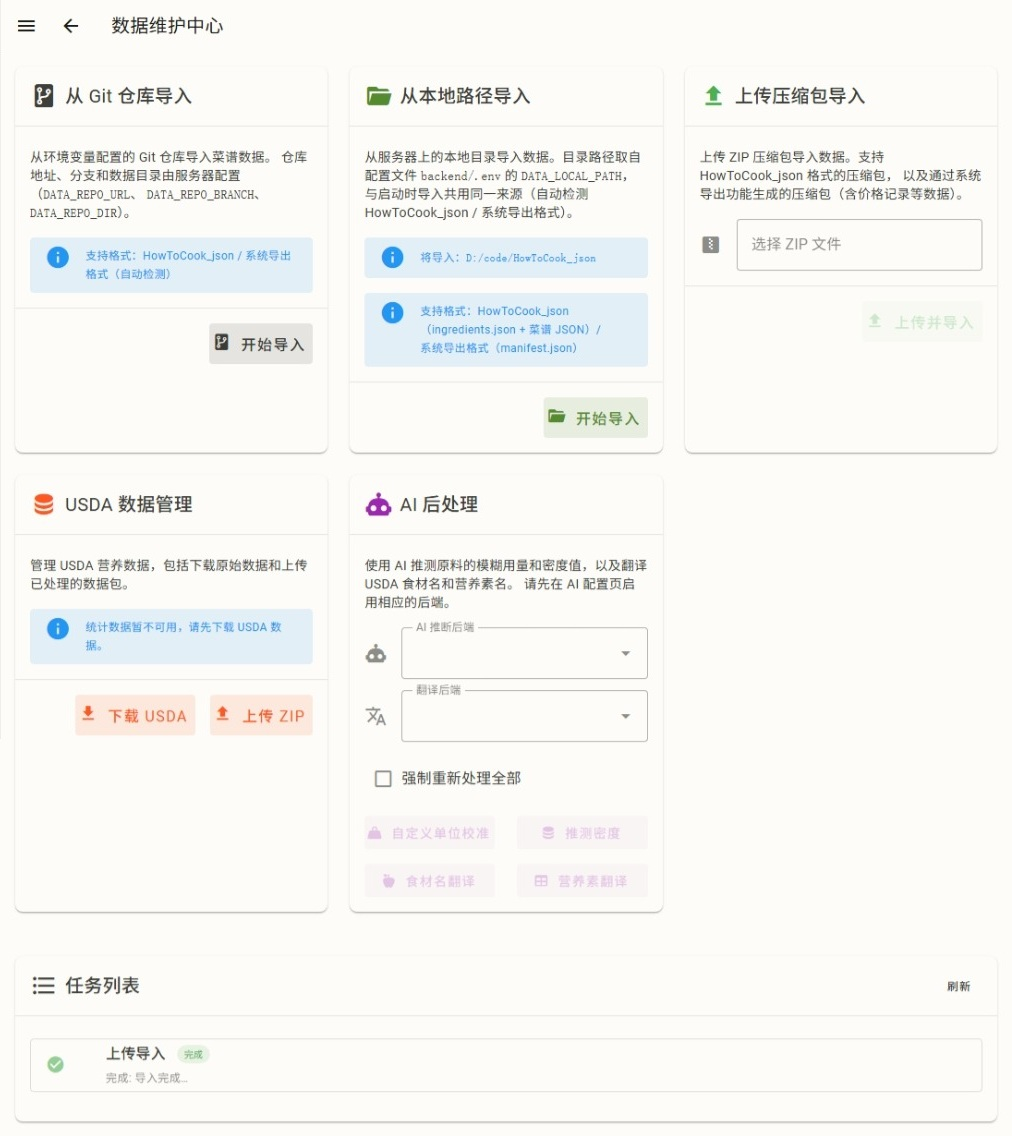
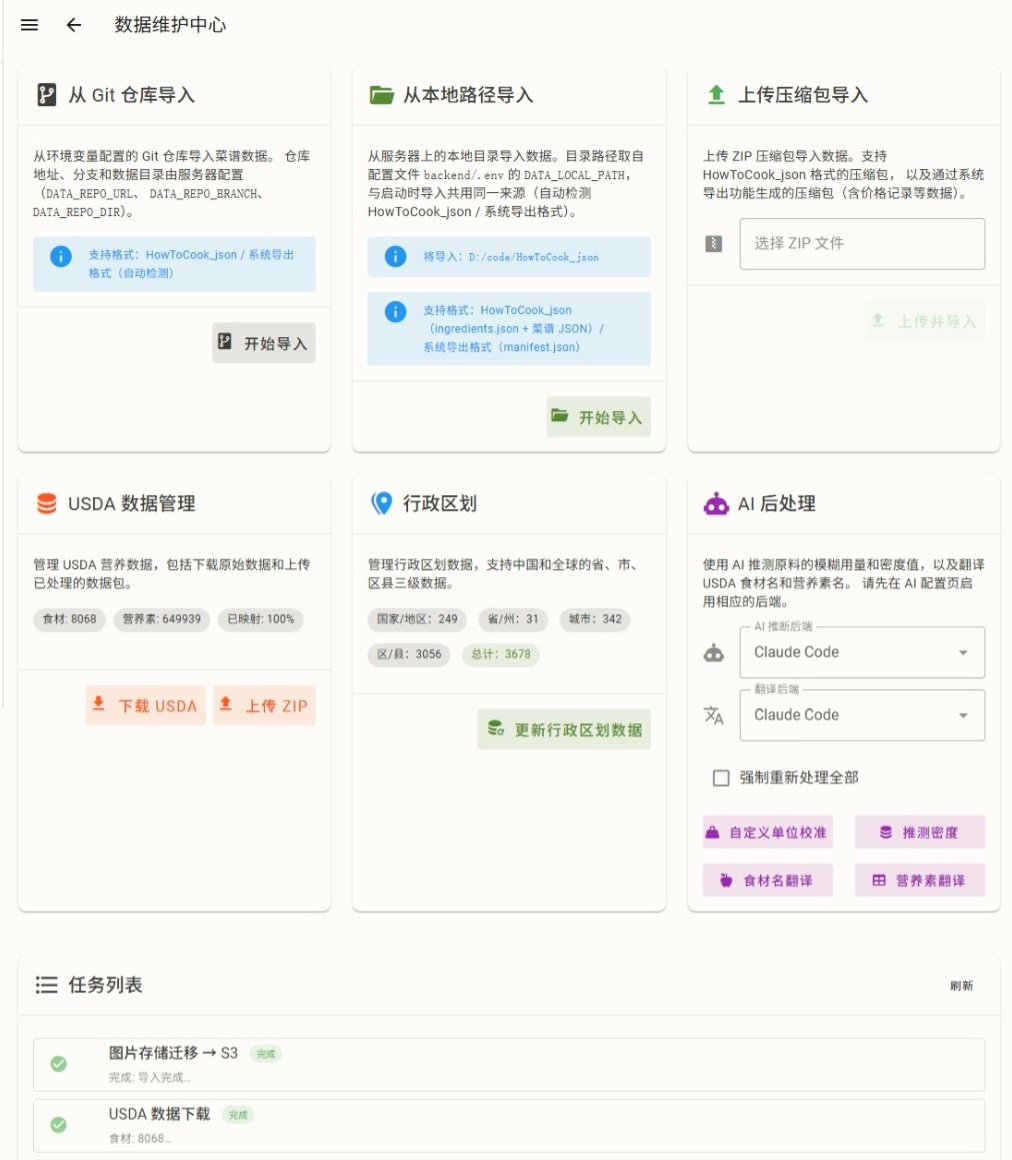
upd docs

diff --git a/docs/admin/data-maintenance.md b/docs/admin/data-maintenance.md
@@ -6,11 +6,12 @@
 
 ## 总览
 
-数据维护中心聚合三类任务的入口和列表：
+数据维护中心聚合以下任务的入口和列表：
 
 - **导入任务**：菜谱/原料/营养的批量导入
 - **Agent 任务**：AI Agent 的批量维护（见 [Agent 任务台](agent.md)）
 - **USDA 任务**：USDA 数据的下载/上传
+- **行政区划**：行政区划信息的更新
 
 所有任务统一在"任务列表"里展示，点进去能跳到对应的工作台。
 
@@ -33,11 +34,17 @@ USDA FoodData Central 是营养数据的来源（见 [营养分析](../nutrition
 
 > USDA 下载较慢（Foundation 几百条 + SR Legacy 七千多条），在任务列表里轮询进度。
 
+## 行政区划
+
+目前覆盖中国大陆的县级行政区划，以及其他国家 / 地区的该层级行政区划，留待以后扩充。
+
+该数据在初始化时即生成，在这里可以更新。
+
 ## AI 后处理
 
 导入数据后，可以用 AI/Agent 批量补全：
 
-- **食材名翻译**：AI（Claude Code / OpenAI / Anthropic）或机翻（百度 / 阿里云 / DeepL）
+- **食材名翻译**：AI（Claude Code / Codex / OpenAI / Anthropic）或机翻（百度 / 阿里云 / DeepL）
 - **营养素名翻译**：走 172 条预设映射表，不耗 AI
 - **模糊量推测**：菜谱里"少许""适量"等推测成具体克数（Agent）
 - **密度推测**：按食材名推测密度（Agent）

diff --git a/docs/admin/admin-pages.md b/docs/admin/admin-pages.md
@@ -154,15 +154,15 @@
 
 ## AI 与机翻配置
 
-![AI 与机翻配置](../img/admin_ai.png)
+![AI 与机翻配置](../img/admin_ai.jpeg)
 
 本页面配置系统里面用到 AI Agent 的地方、使用机器翻译平台的地方的 API 等配置。
 
-- **AI provider**：Claude Code / OpenAI 兼容 API / Anthropic 兼容 API（三个面板）
+- **AI provider**：Claude Code / Codex / OpenAI 兼容 API / Anthropic 兼容 API（三个面板）
 - **机翻 provider**：百度 / 阿里云 / DeepL（三个面板）
 - 每个 provider 一张卡片，填 API 密钥等，统一保存。可以测试，以确认配置是否正确。
 
-> 如果使用 Claude Code，则会试图在环境变量的 PATH 中寻找其可执行文件，配置使用你默认给它的配置。请自行配置。Docker 版本并未封装 Claude Code，请自行安装、配置。
+> 如果使用 Claude Code 或 Codex，则会试图在环境变量的 PATH 中寻找其可执行文件，配置使用你默认给它的配置。请自行配置。Docker 版本并未封装 Claude Code 与 Codex，请自行安装、配置。
 
 ## 未使用图片清理
 

diff --git a/docs/pwa.md b/docs/pwa.md
@@ -1,0 +1,15 @@
+# PWA 支持
+
+本项目支持 PWA，能够在手机 / 电脑上像普通 App 一样使用网页端。
+
+![PWA 模式下的页面](img/pwa_example.PNG)
+
+## iOS 端的使用方式
+
+1. 在 Safari 开启网页的主页，点击右下角的省略号
+2. 点击“共享”
+3. 点击“添加到主屏幕”
+4. 设置主屏幕上的名称。确保“作为网页 App 打开”选项开启
+5. 之后就可以在主屏幕上看到它了。你可以像普通的 App 一样使用、移动，甚至拖动到文件夹里面。
+
+![iOS 端的 PWA 使用方式](img/pwa_add_iphone.PNG)

diff --git a/docs/admin/deploy.md b/docs/admin/deploy.md
@@ -97,7 +97,7 @@ docker compose up -d --build
 
 切换数据库改 `backend/.env` 的 `DATABASE_URL`（PG/MySQL 驱动已在镜像内）。生产务必改 `JWT_SECRET_KEY`、设 `DEBUG=false`。前端构建时 `VITE_API_URL` 走相对路径 `/api/v1`，由 nginx 反代后端，部署时不必改。
 
-> Docker 版本未封装 Claude Code（Agent 任务台用到时请自行安装配置）。
+> Docker 版本未封装 Claude Code、Codex（Agent 任务台用到时请自行安装配置）。
 
 ### 自动发布镜像（GitHub Actions）
 

diff --git a/README.md b/README.md
@@ -15,7 +15,7 @@
 
 目前支持 Web 端，数据库支持 SQLite、MySQL、PostgreSQL，此外还支持本地模式（数据存在用户的浏览器上）。图片存储支持服务端存储和 S3 兼容对象存储。
 
-移动 APP 正在开发。不过 Web 端适配移动平台，而且支持 PWA，可将网页添加到主页方便使用。
+移动 APP 正在开发。不过 Web 端适配移动平台，而且 [支持 PWA](docs/pwa.md)，可将网页添加到主页方便使用。
 
 ## 文档
 

diff --git a/docs/admin/agent.md b/docs/admin/agent.md
@@ -16,6 +16,7 @@ Agent 拿到任务模板后，自主读数据库、分析、写 SQL 修正。关
 ## 支持的 Agent 引擎
 
 - **Claude Code**（subprocess，stream-json 协议；需自行安装、配置，本系统仅调用其 CLI）
+- **Codex SDK**（需安装、配置 Codex）
 - **LangChain Agent**（OpenAI 兼容 / Anthropic 兼容，`create_agent`）
 
 两者共用 `run_agent_loop` + `sql_guard` + 任务模板，在任务台选 provider 分流。

diff --git a/docs/README.md b/docs/README.md
@@ -33,6 +33,7 @@
 | [商家与地图](merchants-map.md) | 商家管理、常用地点、地图引擎 |
 | [个人中心](profile.md) | 单位偏好、数据导出、营养目标与预算 |
 | [本地模式](local-mode.md) | 纯前端版本：IndexedDB 存储、PWA 安装、初始化向导、功能差异 |
+| [PWA 支持](pwa.md) | 如何在手机上像普通 App 一样使用该项目的网页 |
 
 ## 后台管理与运维（管理员专属）
 
